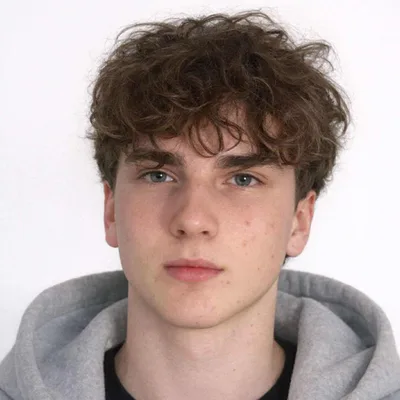
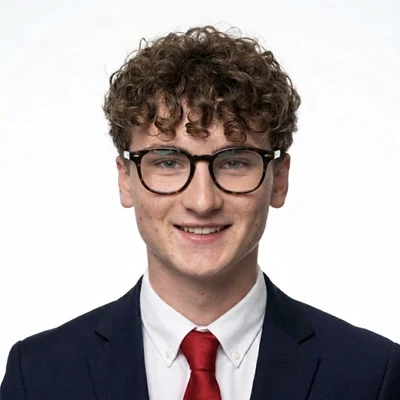
Add real contact data, Michał's photo, price estimator, and admin panel
- Fill in phone (+48 575 566 058), email (bezerek@icloud.com), and
  administrators (Jakub Stawicki, Michał Stachowski) everywhere they
  were still placeholders: contact section, footer, RODO clause,
  privacy policy, JSON-LD, and the form's error message.
- Replace Michał's placeholder photo with the supplied headshot,
  cropped/resized to match the site's existing photo format.
- Show an automatic, orientation-only price estimate on the brief's
  thank-you screen, computed from the answers given (service tier +
  selected features + rush surcharge).
- Add admin.html: a static site has no server to host a real login,
  so this explains that plainly and points admins to Formspree's own
  account-based dashboard instead of a fake client-side password.
  robots.txt excludes it from indexing.
- Point FORM_ENDPOINT at Formspree specifically (still needs the real
  form URL once the account exists — see admin.html for the steps).

Claude-Session: https://claude.ai/code/session_019xsfR8oHcC82RXqA3SZcJ9

diff --git a/index.html b/index.html
@@ -70,8 +70,8 @@
   "name": "Jakub & Michał — strony i aplikacje webowe",
   "description": "Dwuosobowe studio z Warszawy. Robimy strony internetowe i aplikacje webowe: wizytówki, landing page, systemy zapisów i płatności, aplikacje z kontami użytkowników.",
   "url": "https://jakubstawicki-droid.github.io/michalikuba/",
-  "telephone": "MOJ_TELEFON",
-  "email": "MOJ_MAIL",
+  "telephone": "+48575566058",
+  "email": "bezerek@icloud.com",
   "areaServed": "PL",
   "address": {
     "@type": "PostalAddress",
@@ -606,6 +606,18 @@ label.inp{ display:block; margin-bottom:0; }
   font-size:clamp(1.6rem,1.2rem+2vw,2.2rem); margin:0 0 10px; letter-spacing:-0.02em; }
 .wizard-done p{ color:var(--ink-soft); max-width:44ch; margin:0 auto; }
 
+.estimate-box{
+  margin:28px auto 0; padding:22px 26px; max-width:44ch;
+  background:var(--accent-wash); border:1px solid var(--accent-line); border-radius:var(--radius);
+}
+.estimate-box .estimate-label{ margin:0 0 6px; font-size:.82rem; font-weight:600; letter-spacing:.04em; text-transform:uppercase; color:var(--accent-ink); }
+.estimate-box .estimate-amount{
+  margin:0 0 8px; font-family:"Fraunces",serif; font-weight:600;
+  font-variation-settings:"SOFT" 50,"WONK" 0,"opsz" 72;
+  font-size:clamp(1.6rem,1.3rem + 1.5vw,2.1rem); letter-spacing:-0.02em; color:var(--ink);
+}
+.estimate-box .estimate-note{ margin:0; font-size:.85rem; color:var(--ink-soft); max-width:none; }
+
 /* ============================================================
    KONTAKT / STOPKA
    ============================================================ */
@@ -1012,7 +1024,7 @@ footer .foot-inner{ display:flex; flex-wrap:wrap; gap:12px 24px; justify-content
             <label class="rodo" id="rodoBox">
               <input type="checkbox" name="rodo">
               <span class="mark"><svg viewBox="0 0 24 24" fill="none" stroke="#fff" stroke-width="3.5" stroke-linecap="round" stroke-linejoin="round"><polyline points="20 6 9 17 4 12"/></svg></span>
-              <span class="txt">Zgadzam się na przetwarzanie moich danych w celu przygotowania wyceny i kontaktu w tej sprawie. Administratorem danych jest [ADMINISTRATOR_DANYCH]. Dane usuwamy na żądanie i nie przekazujemy nikomu. Szczegóły w <a href="polityka-prywatnosci.html" target="_blank" rel="noopener noreferrer">polityce prywatności</a>.</span>
+              <span class="txt">Zgadzam się na przetwarzanie moich danych w celu przygotowania wyceny i kontaktu w tej sprawie. Administratorami danych są Jakub Stawicki i Michał Stachowski (kontakt: bezerek@icloud.com). Dane usuwamy na żądanie i nie przekazujemy nikomu. Szczegóły w <a href="polityka-prywatnosci.html" target="_blank" rel="noopener noreferrer">polityce prywatności</a>.</span>
             </label>
             <p class="err-msg" data-for="rodo"></p>
           </div>
@@ -1027,7 +1039,7 @@ footer .foot-inner{ display:flex; flex-wrap:wrap; gap:12px 24px; justify-content
       </div>
 
       <p class="submit-error" id="submitError" hidden>
-        Nie udało się wysłać briefu. Napisz bezpośrednio: <a href="mailto:MOJ_MAIL">MOJ_MAIL</a>.
+        Nie udało się wysłać briefu. Napisz bezpośrednio: <a href="mailto:bezerek@icloud.com">bezerek@icloud.com</a>.
       </p>
 
       <div class="wizard-nav">
@@ -1042,6 +1054,11 @@ footer .foot-inner{ display:flex; flex-wrap:wrap; gap:12px 24px; justify-content
         <div class="check"><svg viewBox="0 0 24 24" fill="none" stroke="#2b2bff" stroke-width="3" stroke-linecap="round" stroke-linejoin="round"><polyline points="20 6 9 17 4 12"/></svg></div>
         <h3>Dzięki — odezwiemy się w ciągu 48 godzin.</h3>
         <p>Mamy Twój brief. Przygotujemy konkretną wycenę i termin, i wrócimy do Ciebie mailem lub telefonicznie.</p>
+        <div class="estimate-box" id="estimateBox" hidden>
+          <p class="estimate-label">Szacowana wycena na podstawie Twoich odpowiedzi</p>
+          <p class="estimate-amount" id="estimateAmount"></p>
+          <p class="estimate-note">To orientacyjne widełki, nie ostateczna oferta. Dokładną cenę i termin potwierdzimy w ciągu 48h.</p>
+        </div>
       </div>
     </div>
   </div>
@@ -1058,11 +1075,11 @@ footer .foot-inner{ display:flex; flex-wrap:wrap; gap:12px 24px; justify-content
     <div class="contact-grid">
       <div class="contact-card reveal">
         <p class="lbl">Telefon</p>
-        <a href="tel:MOJ_TELEFON">MOJ_TELEFON</a>
+        <a href="tel:+48575566058">+48 575 566 058</a>
       </div>
       <div class="contact-card reveal">
         <p class="lbl">E-mail</p>
-        <a href="mailto:MOJ_MAIL">MOJ_MAIL</a>
+        <a href="mailto:bezerek@icloud.com">bezerek@icloud.com</a>
       </div>
     </div>
   </div>
@@ -1070,7 +1087,7 @@ footer .foot-inner{ display:flex; flex-wrap:wrap; gap:12px 24px; justify-content
 
 <footer>
   <div class="container foot-inner">
-    <span>© <span id="year"></span> [ADMINISTRATOR_DANYCH] · Jakub &amp; Michał · Strony i aplikacje webowe · Warszawa</span>
+    <span>© <span id="year"></span> Jakub Stawicki i Michał Stachowski · Strony i aplikacje webowe · Warszawa</span>
     <span style="display:flex; gap:20px; align-items:center;">
       <a href="polityka-prywatnosci.html" style="color:inherit; text-decoration:none;">Polityka prywatności</a>
       <a href="#brief" style="color:var(--accent-ink); font-weight:600; text-decoration:none;">Wyceń projekt →</a>
@@ -1348,14 +1365,56 @@ footer .foot-inner{ display:flex; flex-wrap:wrap; gap:12px 24px; justify-content
   /* ============================================================
      WYSYŁKA BRIEFU
      ============================================================ */
-  var FORM_ENDPOINT = "ENDPOINT_FORMULARZA"; // URL z Formspree lub access key z Web3Forms
+  var FORM_ENDPOINT = "ENDPOINT_FORMULARZA"; // wklej adres z Formspree, np. https://formspree.io/f/xxxxxxxx — patrz admin.html
   var submitErrorEl = document.getElementById("submitError");
   var btnSubmitDefaultHTML = btnSubmit.innerHTML;
+  var estimateBox = document.getElementById("estimateBox");
+  var estimateAmountEl = document.getElementById("estimateAmount");
+
+  /* ---------- Szacowana wycena (orientacyjna, na podstawie cennika) ---------- */
+  var ESTIMATE_BASE = {
+    "Strona wizytówka": 2500,
+    "Landing page pod kampanię/wydarzenie": 4000,
+    "Sklep / system zapisów": 9000,
+    "Aplikacja webowa z kontami": 9000
+  };
+  var ESTIMATE_EXTRA = {
+    "Zapisy / rezerwacje": 1000,
+    "Płatności online": 1500,
+    "Konta użytkowników": 1500,
+    "Blog / aktualności": 500,
+    "Galeria": 300,
+    "Wersja obcojęzyczna": 800,
+    "Integracja z Google Maps": 200,
+    "Newsletter": 300
+  };
+  function formatPLN(n){
+    var rounded = Math.round(n / 10) * 10;
+    return rounded.toString().replace(/\B(?=(\d{3})+(?!\d))/g, " ") + " zł";
+  }
+
+  function renderEstimate(data){
+    var base = ESTIMATE_BASE[data.potrzeba];
+    if (!base){ estimateBox.hidden = true; return; }
+
+    var low = base;
+    data.funkcje.forEach(function(f){ low += ESTIMATE_EXTRA[f] || 0; });
+    var high = low + Math.round(low * 0.3);
+
+    if (data.termin === "Na już (do 2 tygodni)"){
+      low = Math.round(low * 1.15);
+      high = Math.round(high * 1.15);
+    }
+
+    estimateAmountEl.textContent = formatPLN(low) + " – " + formatPLN(high);
+    estimateBox.hidden = false;
+  }
 
   function submitBrief(data){
     var honeypot = wizard.querySelector('[name="firma_www"]');
     if (honeypot && honeypot.value){
       // Pole wypełnił bot — cichy fałszywy sukces, bez wysyłki.
+      renderEstimate(data);
       showThankYou();
       return;
     }
@@ -1384,6 +1443,7 @@ footer .foot-inner{ display:flex; flex-wrap:wrap; gap:12px 24px; justify-content
       body: JSON.stringify(payload)
     }).then(function(res){
       if (!res.ok) throw new Error("HTTP " + res.status);
+      renderEstimate(data);
       showThankYou();
     }).catch(function(err){
       console.error("Błąd wysyłki briefu:", err);

diff --git a/admin.html b/admin.html
@@ -3,6 +3,7 @@
 <head>
 <meta charset="UTF-8">
 <meta name="viewport" content="width=device-width, initial-scale=1.0">
+<meta name="robots" content="noindex, nofollow">
 
 <!-- Zasada projektu: treść widoczna DOMYŚLNIE, animacja to tylko wzbogacenie.
      Ten skrypt musi być w <head> i wykonać się przed malowaniem:
@@ -29,8 +30,8 @@
   }
 </script>
 
-<title>Nie znaleziono strony (404) — Jakub i Michał</title>
-<meta name="description" content="Strona, której szukasz, nie istnieje albo została przeniesiona. Wróć na stronę główną Jakub i Michał.">
+<title>Panel zgłoszeń (dla administratorów) — Jakub i Michał</title>
+<meta name="description" content="Strona nieindeksowana: dostęp do zgłoszeń z formularza briefu dla Jakuba i Michała.">
 
 <!-- ===== Favicon =====
      favicon.svg = wersja główna (skaluje się ostro). PNG 32px = fallback dla przeglądarek
@@ -46,9 +47,9 @@
 <meta property="og:type" content="website">
 <meta property="og:locale" content="pl_PL">
 <meta property="og:site_name" content="Jakub & Michał">
-<meta property="og:title" content="Nie znaleziono strony (404) — Jakub i Michał">
-<meta property="og:description" content="Strona, której szukasz, nie istnieje albo została przeniesiona. Wróć na stronę główną Jakub i Michał.">
-<meta property="og:url" content="https://jakubstawicki-droid.github.io/michalikuba/404.html">
+<meta property="og:title" content="Panel zgłoszeń (dla administratorów) — Jakub i Michał">
+<meta property="og:description" content="Strona nieindeksowana: dostęp do zgłoszeń z formularza briefu dla Jakuba i Michała.">
+<meta property="og:url" content="https://jakubstawicki-droid.github.io/michalikuba/admin.html">
 <meta property="og:image" content="https://jakubstawicki-droid.github.io/michalikuba/img/og-cover.jpg">
 <meta property="og:image:width" content="1200">
 <meta property="og:image:height" content="630">
@@ -56,12 +57,12 @@
 
 <!-- ===== Twitter / X ===== -->
 <meta name="twitter:card" content="summary_large_image">
-<meta name="twitter:title" content="Nie znaleziono strony (404) — Jakub i Michał">
-<meta name="twitter:description" content="Strona, której szukasz, nie istnieje albo została przeniesiona. Wróć na stronę główną Jakub i Michał.">
+<meta name="twitter:title" content="Panel zgłoszeń (dla administratorów) — Jakub i Michał">
+<meta name="twitter:description" content="Strona nieindeksowana: dostęp do zgłoszeń z formularza briefu dla Jakuba i Michała.">
 <meta name="twitter:image" content="https://jakubstawicki-droid.github.io/michalikuba/img/og-cover.jpg">
 <meta name="twitter:image:alt" content="Jakub & Michał — strony i aplikacje webowe, Warszawa">
 
-<link rel="canonical" href="https://jakubstawicki-droid.github.io/michalikuba/404.html">
+<link rel="canonical" href="https://jakubstawicki-droid.github.io/michalikuba/admin.html">
 
 
 <!-- Fraunces: font zmienny. Prosimy o zakres osi opsz/wght/SOFT/WONK i sterujemy nimi
@@ -569,6 +570,18 @@ label.inp{ display:block; margin-bottom:0; }
   font-size:clamp(1.6rem,1.2rem+2vw,2.2rem); margin:0 0 10px; letter-spacing:-0.02em; }
 .wizard-done p{ color:var(--ink-soft); max-width:44ch; margin:0 auto; }
 
+.estimate-box{
+  margin:28px auto 0; padding:22px 26px; max-width:44ch;
+  background:var(--accent-wash); border:1px solid var(--accent-line); border-radius:var(--radius);
+}
+.estimate-box .estimate-label{ margin:0 0 6px; font-size:.82rem; font-weight:600; letter-spacing:.04em; text-transform:uppercase; color:var(--accent-ink); }
+.estimate-box .estimate-amount{
+  margin:0 0 8px; font-family:"Fraunces",serif; font-weight:600;
+  font-variation-settings:"SOFT" 50,"WONK" 0,"opsz" 72;
+  font-size:clamp(1.6rem,1.3rem + 1.5vw,2.1rem); letter-spacing:-0.02em; color:var(--ink);
+}
+.estimate-box .estimate-note{ margin:0; font-size:.85rem; color:var(--ink-soft); max-width:none; }
+
 /* ============================================================
    KONTAKT / STOPKA
    ============================================================ */
@@ -612,13 +625,29 @@ footer .foot-inner{ display:flex; flex-wrap:wrap; gap:12px 24px; justify-content
 
 <!-- ================= HERO ================= -->
 
-<main id="main" style="min-height:60vh; display:flex; align-items:center;">
-<section style="width:100%; padding-block:clamp(56px,9vw,96px);">
-  <div class="container" style="text-align:center;">
-    <p class="eyebrow">404</p>
-    <h1 class="h-serif" style="font-size:clamp(2.2rem,1.6rem + 3vw,3.6rem); margin:0 0 16px;">Nie znaleźliśmy tej strony.</h1>
-    <p style="color:var(--ink-soft); max-width:48ch; margin:0 auto 32px;">Link mógł się zdezaktualizować albo strona nigdy tu nie była.</p>
-    <a href="index.html" class="btn btn-primary">Strona główna <span class="arrow">→</span></a>
+<main id="main">
+<section style="padding-top:clamp(56px,9vw,96px);">
+  <div class="container" style="max-width:640px;">
+    <p class="eyebrow">Dla administratorów</p>
+    <h1 class="h-serif" style="font-size:clamp(1.9rem,1.5rem + 1.8vw,2.6rem); margin:0 0 16px;">Panel zgłoszeń</h1>
+
+    <p style="color:var(--ink-soft);">Ta strona jest hostowana na GitHub Pages, czyli bez własnego serwera i bazy danych. Dlatego zgłoszenia z formularza briefu nie są zapisywane na tej stronie — trafiają od razu na maila oraz do panelu dostawcy formularza, który ma prawdziwe logowanie (e-mail i hasło), a nie hasło wpisane w kodzie strony, które każdy mógłby podejrzeć w przeglądarce.</p>
+
+    <div style="margin:28px 0; padding:22px 24px; background:var(--surface); border:1px solid var(--line); border-radius:var(--radius-lg);">
+      <p style="margin:0 0 14px; font-weight:600;">Logowanie do zgłoszeń</p>
+      <p style="margin:0 0 18px; color:var(--ink-soft); font-size:.95rem;">Wszystkie briefy, historia i eksport do CSV są dostępne po zalogowaniu w panelu Formspree.</p>
+      <a href="https://formspree.io/login" target="_blank" rel="noopener noreferrer" class="btn btn-primary">Zaloguj się do Formspree <span class="arrow">↗</span></a>
+    </div>
+
+    <h2 class="h-serif" style="font-size:1.15rem; margin:32px 0 8px;">Pierwsze uruchomienie</h2>
+    <ol style="color:var(--ink-soft); padding-left:20px;">
+      <li>Załóż darmowe konto na <a href="https://formspree.io" target="_blank" rel="noopener noreferrer">formspree.io</a> (e-mail: bezerek@icloud.com).</li>
+      <li>Utwórz nowy formularz — Formspree poda adres w formacie <code>https://formspree.io/f/xxxxxxxx</code>.</li>
+      <li>Wklej ten adres jako wartość <code>FORM_ENDPOINT</code> w <code>index.html</code>.</li>
+      <li>Od tej pory każdy wysłany brief trafi na maila i pojawi się w panelu Formspree pod przyciskiem powyżej.</li>
+    </ol>
+
+    <p style="margin-top:40px;"><a href="index.html" class="btn btn-ghost">← Wróć na stronę główną</a></p>
   </div>
 </section>
 </main>

diff --git a/polityka-prywatnosci.html b/polityka-prywatnosci.html
@@ -620,7 +620,7 @@ footer .foot-inner{ display:flex; flex-wrap:wrap; gap:12px 24px; justify-content
     <p style="color:var(--ink-soft); margin:0 0 40px;">Dotyczy danych podawanych w formularzu briefu na stronie głównej.</p>
 
     <h2 class="h-serif" style="font-size:1.3rem; margin:0 0 8px;">Administrator danych</h2>
-    <p style="color:var(--ink-soft);">Administratorem danych osobowych podanych w formularzu jest [ADMINISTRATOR_DANYCH], [ADRES_ADMINISTRATORA]. Kontakt w sprawach danych osobowych: <a href="mailto:MOJ_MAIL">MOJ_MAIL</a>.</p>
+    <p style="color:var(--ink-soft);">Współadministratorami danych osobowych podanych w formularzu są Jakub Stawicki i Michał Stachowski. Kontakt w sprawach danych osobowych: <a href="mailto:bezerek@icloud.com">bezerek@icloud.com</a> lub <a href="tel:+48575566058">+48 575 566 058</a>.</p>
 
     <h2 class="h-serif" style="font-size:1.3rem; margin:32px 0 8px;">Cel przetwarzania</h2>
     <p style="color:var(--ink-soft);">Dane podane w formularzu (imię i nazwisko, adres e-mail, telefon, treść zgłoszenia) przetwarzamy wyłącznie w celu przygotowania wyceny projektu oraz kontaktu w tej sprawie.</p>
@@ -647,7 +647,7 @@ footer .foot-inner{ display:flex; flex-wrap:wrap; gap:12px 24px; justify-content
 
 <footer>
   <div class="container foot-inner">
-    <span>© <span id="year"></span> [ADMINISTRATOR_DANYCH] · Jakub &amp; Michał · Strony i aplikacje webowe · Warszawa</span>
+    <span>© <span id="year"></span> Jakub Stawicki i Michał Stachowski · Strony i aplikacje webowe · Warszawa</span>
     <span style="display:flex; gap:20px; align-items:center;">
       <a href="polityka-prywatnosci.html" style="color:inherit; text-decoration:none;">Polityka prywatności</a>
       <a href="index.html#brief" style="color:var(--accent-ink); font-weight:600; text-decoration:none;">Wyceń projekt →</a>
